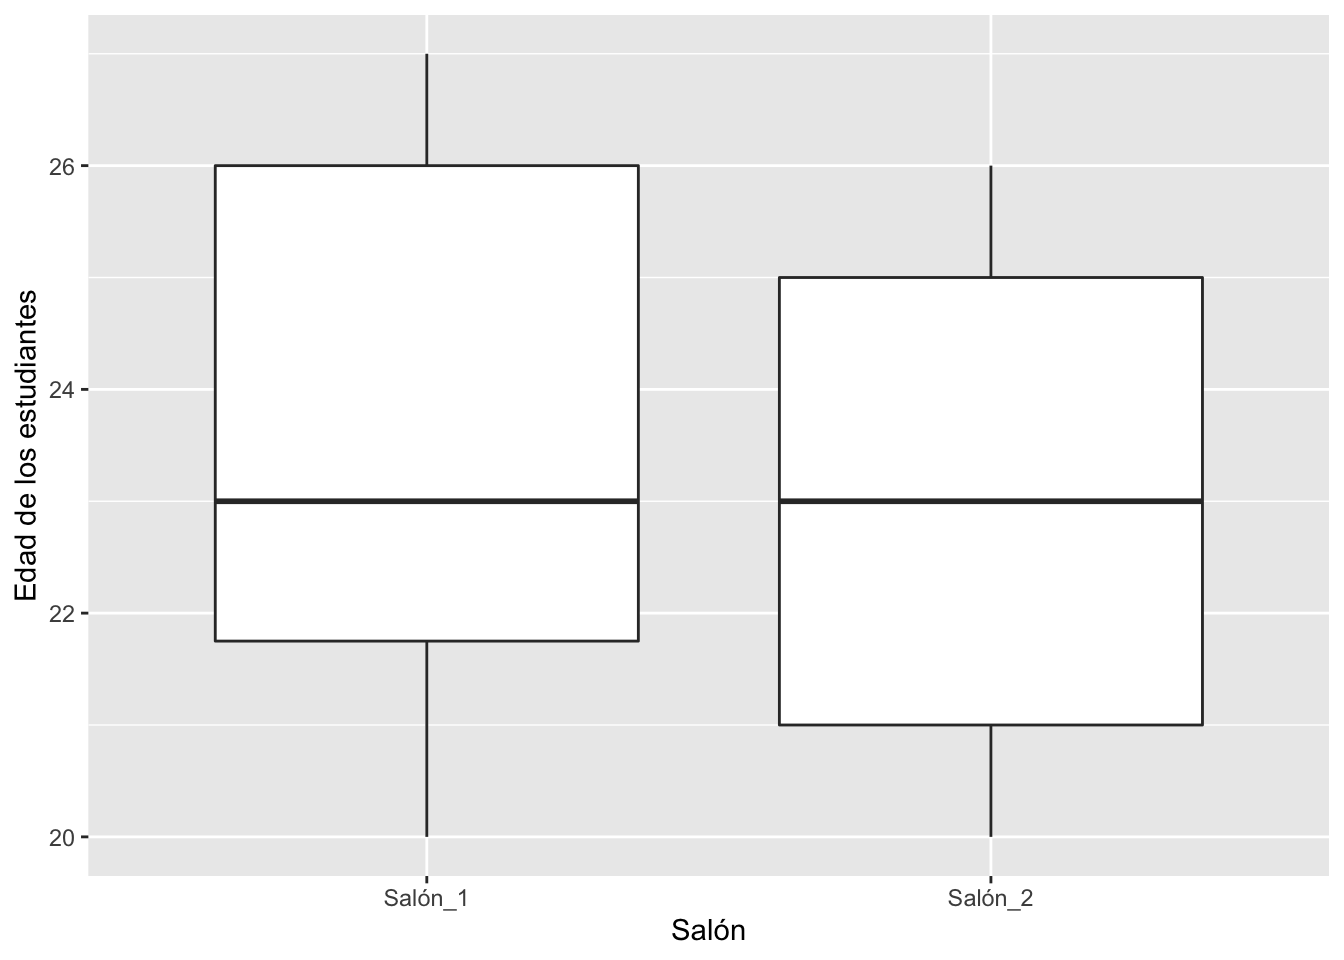
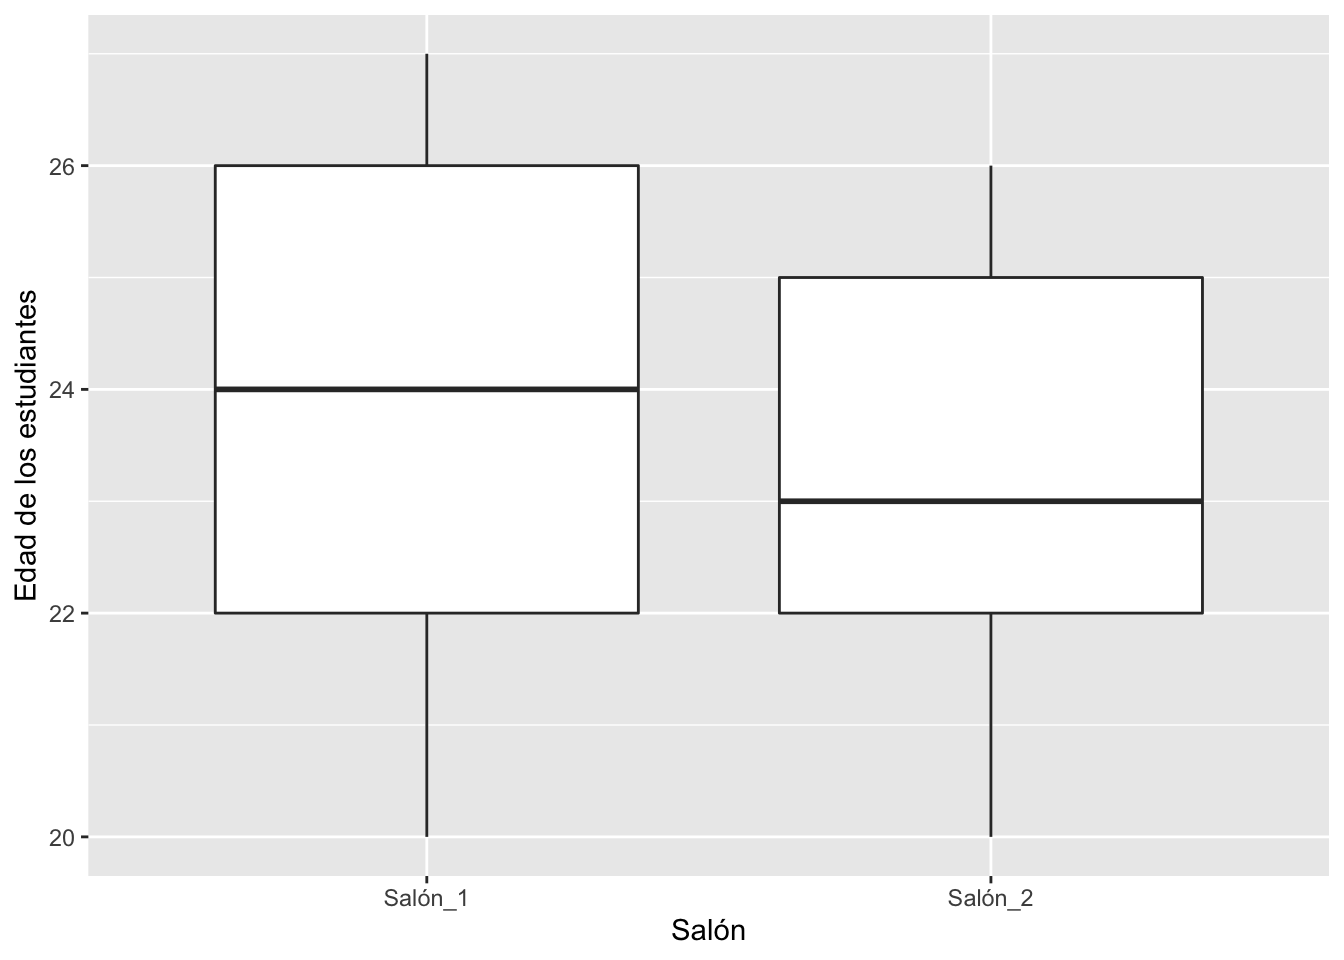
.css

diff --git a/G1-ggplot2.html b/G1-ggplot2.html
@@ -24,7 +24,8 @@
 <link href="site_libs/tocify-1.9.1/jquery.tocify.css" rel="stylesheet" />
 <script src="site_libs/tocify-1.9.1/jquery.tocify.js"></script>
 <script src="site_libs/navigation-1.1/tabsets.js"></script>
-<script src="site_libs/accessible-code-block-0.0.1/empty-anchor.js"></script>
+<link href="site_libs/highlightjs-9.12.0/default.css" rel="stylesheet" />
+<script src="site_libs/highlightjs-9.12.0/highlight.js"></script>
 <link href="site_libs/anchor-sections-1.0/anchor-sections.css" rel="stylesheet" />
 <script src="site_libs/anchor-sections-1.0/anchor-sections.js"></script>
 
@@ -37,99 +38,22 @@
   ul.task-list{list-style: none;}
     </style>
 
-
 <style type="text/css">code{white-space: pre;}</style>
-<style type="text/css" data-origin="pandoc">
-pre > code.sourceCode { white-space: pre; position: relative; }
-pre > code.sourceCode > span { display: inline-block; line-height: 1.25; }
-pre > code.sourceCode > span:empty { height: 1.2em; }
-code.sourceCode > span { color: inherit; text-decoration: inherit; }
-div.sourceCode { margin: 1em 0; }
-pre.sourceCode { margin: 0; }
-@media screen {
-div.sourceCode { overflow: auto; }
-}
-@media print {
-pre > code.sourceCode { white-space: pre-wrap; }
-pre > code.sourceCode > span { text-indent: -5em; padding-left: 5em; }
-}
-pre.numberSource code
-  { counter-reset: source-line 0; }
-pre.numberSource code > span
-  { position: relative; left: -4em; counter-increment: source-line; }
-pre.numberSource code > span > a:first-child::before
-  { content: counter(source-line);
-    position: relative; left: -1em; text-align: right; vertical-align: baseline;
-    border: none; display: inline-block;
-    -webkit-touch-callout: none; -webkit-user-select: none;
-    -khtml-user-select: none; -moz-user-select: none;
-    -ms-user-select: none; user-select: none;
-    padding: 0 4px; width: 4em;
-    color: #aaaaaa;
-  }
-pre.numberSource { margin-left: 3em; border-left: 1px solid #aaaaaa;  padding-left: 4px; }
-div.sourceCode
-  {   }
-@media screen {
-pre > code.sourceCode > span > a:first-child::before { text-decoration: underline; }
-}
-code span.al { color: #ff0000; font-weight: bold; } /* Alert */
-code span.an { color: #60a0b0; font-weight: bold; font-style: italic; } /* Annotation */
-code span.at { color: #7d9029; } /* Attribute */
-code span.bn { color: #40a070; } /* BaseN */
-code span.bu { } /* BuiltIn */
-code span.cf { color: #007020; font-weight: bold; } /* ControlFlow */
-code span.ch { color: #4070a0; } /* Char */
-code span.cn { color: #880000; } /* Constant */
-code span.co { color: #60a0b0; font-style: italic; } /* Comment */
-code span.cv { color: #60a0b0; font-weight: bold; font-style: italic; } /* CommentVar */
-code span.do { color: #ba2121; font-style: italic; } /* Documentation */
-code span.dt { color: #902000; } /* DataType */
-code span.dv { color: #40a070; } /* DecVal */
-code span.er { color: #ff0000; font-weight: bold; } /* Error */
-code span.ex { } /* Extension */
-code span.fl { color: #40a070; } /* Float */
-code span.fu { color: #06287e; } /* Function */
-code span.im { } /* Import */
-code span.in { color: #60a0b0; font-weight: bold; font-style: italic; } /* Information */
-code span.kw { color: #007020; font-weight: bold; } /* Keyword */
-code span.op { color: #666666; } /* Operator */
-code span.ot { color: #007020; } /* Other */
-code span.pp { color: #bc7a00; } /* Preprocessor */
-code span.sc { color: #4070a0; } /* SpecialChar */
-code span.ss { color: #bb6688; } /* SpecialString */
-code span.st { color: #4070a0; } /* String */
-code span.va { color: #19177c; } /* Variable */
-code span.vs { color: #4070a0; } /* VerbatimString */
-code span.wa { color: #60a0b0; font-weight: bold; font-style: italic; } /* Warning */
-
-</style>
-<script>
-// apply pandoc div.sourceCode style to pre.sourceCode instead
-(function() {
-  var sheets = document.styleSheets;
-  for (var i = 0; i < sheets.length; i++) {
-    if (sheets[i].ownerNode.dataset["origin"] !== "pandoc") continue;
-    try { var rules = sheets[i].cssRules; } catch (e) { continue; }
-    for (var j = 0; j < rules.length; j++) {
-      var rule = rules[j];
-      // check if there is a div.sourceCode rule
-      if (rule.type !== rule.STYLE_RULE || rule.selectorText !== "div.sourceCode") continue;
-      var style = rule.style.cssText;
-      // check if color or background-color is set
-      if (rule.style.color === '' && rule.style.backgroundColor === '') continue;
-      // replace div.sourceCode by a pre.sourceCode rule
-      sheets[i].deleteRule(j);
-      sheets[i].insertRule('pre.sourceCode{' + style + '}', j);
-    }
-  }
-})();
-</script>
 <style type="text/css">
   pre:not([class]) {
     background-color: white;
   }
 </style>
+<script type="text/javascript">
+if (window.hljs) {
+  hljs.configure({languages: []});
+  hljs.initHighlightingOnLoad();
+  if (document.readyState && document.readyState === "complete") {
+    window.setTimeout(function() { hljs.initHighlighting(); }, 0);
+  }
+}
+</script>
+
 
 
 <style type="text/css">
@@ -588,33 +512,33 @@ div.tocify {
 <p>Veamos un ejemplo. Si uno lista las edades de estudiantes universitarios de dos salones, tendremos el reto de intentar discernir si sus edades son aproximadamente iguales o diferentes solo al mirar la lista. ¿Será posible? A ver, intenta explicar cuál es la diferencia (si existe alguna) en las edades de las dos listas siguientes.</p>
 <p>Edades del salón 1:</p>
 <pre><code>## $V1
-##   [1] 24 24 22 25 26 21 23 26 20 23 25 27 20 20 26 22 20 25 20 26 22 27 26 24 25
-##  [26] 24 21 26 26 24 23 24 27 21 23 23 23 21 22 25 23 23 22 23 20 25 20 22 26 27
-##  [51] 21 26 27 26 23 21 20 27 20 23 20 26 21 25 21 22 22 27 23 26 21 25 21 24 22
-##  [76] 26 21 27 24 23 24 26 27 23 21 26 22 25 22 25 27 22 23 26 24 27 21 21 27 20</code></pre>
+##   [1] 24 21 23 27 23 27 23 27 20 20 27 24 23 22 22 24 20 21 25 22 26 21 24 26 26
+##  [26] 23 25 26 26 27 23 27 26 23 24 23 26 25 23 25 21 25 25 23 27 23 27 27 21 25
+##  [51] 21 27 27 26 21 26 21 21 22 27 20 22 20 26 27 20 23 24 24 21 22 26 21 21 20
+##  [76] 20 20 24 27 22 22 20 22 27 26 27 24 27 26 22 26 27 27 24 24 27 23 25 22 22</code></pre>
 <hr />
 <p>Edades del salón 2:</p>
 <pre><code>## $V1
-##   [1] 21 23 23 26 20 25 20 24 26 23 23 24 26 20 23 20 23 26 20 24 25 26 21 26 25
-##  [26] 24 23 24 21 23 26 20 20 25 23 23 23 24 25 26 26 22 25 21 26 26 20 24 22 24
-##  [51] 26 20 23 20 24 20 24 25 22 21 24 24 26 22 20 26 21 22 20 23 20 20 25 26 23
-##  [76] 22 25 20 24 22 23 26 24 22 25 21 23 26 26 23 26 24 20 26 21 22 25 21 26 22</code></pre>
+##   [1] 22 26 22 25 21 22 22 25 25 21 22 21 23 26 25 20 20 22 26 21 21 21 24 24 22
+##  [26] 22 23 23 25 24 23 23 21 24 23 20 21 26 23 22 24 22 24 26 23 20 23 22 26 24
+##  [51] 22 26 24 20 26 24 24 22 24 26 24 25 25 25 24 26 26 23 21 25 20 24 25 24 22
+##  [76] 22 22 22 22 23 20 26 26 22 21 22 23 23 26 25 23 26 20 22 20 20 26 20 23 20</code></pre>
 <p>Probablemente notes que no es evidente a primera vista cuál es la diferencia entre las dos listas de datos. Necesitamos ayuda para visualizar la diferencia. A continuación se explican un par de maneras de ver esa misma información.</p>
 <hr />
 <div id="resumir-la-información-en-tablas" class="section level2">
 <h2>Resumir la información en tablas</h2>
 <p>Una alternativa razonable para discernir la diferencia entre las edades de los dos grupos de estudiantes listadas arriba es resumir los datos en una tabla; o sea, por grupos, Salón 1 y Salón 2. Al mirar la <strong>Tabla: Edad de los Estudiantes</strong> podemos apreciar que hay muy poca diferencia entre los promedios de las edades, pero también podemos ver que la edad máxima de los estudiantes es diferente.</p>
 <p>En conclusión, con este simple ejercicio podemos afirmar que las dos listas de edades tienen valores muy similares, pero que hay otras características (por ejemplo, el valor máximo) que los hace diferentes. También podemos reconocer que si hay muchos valores en una lista, típicamente los humanos no podemos entender esos patrones a simple vista. Por lo tanto, es importante recurrir a diversos métodos para resumir los datos de forma más concisa, efectiva y eficiente, tal como lo demostraremos próximamente.</p>
-<div class="sourceCode" id="cb4"><pre class="sourceCode r"><code class="sourceCode r"><span id="cb4-1"><a href="#cb4-1"></a><span class="co"># para disparar tabla:</span></span>
-<span id="cb4-2"><a href="#cb4-2"></a>df<span class="op">%&gt;%</span></span>
-<span id="cb4-3"><a href="#cb4-3"></a><span class="st">  </span><span class="kw">select</span>(V1, Salón)<span class="op">%&gt;%</span></span>
-<span id="cb4-4"><a href="#cb4-4"></a><span class="st">  </span><span class="kw">group_by</span>(Salón)<span class="op">%&gt;%</span></span>
-<span id="cb4-5"><a href="#cb4-5"></a><span class="st">  </span><span class="kw">summarize</span>(<span class="dt">promedio=</span><span class="kw">mean</span>(V1), </span>
-<span id="cb4-6"><a href="#cb4-6"></a>             mínima=<span class="kw">min</span>(V1),</span>
-<span id="cb4-7"><a href="#cb4-7"></a>             máxima=<span class="kw">max</span>(V1))<span class="op">%&gt;%</span></span>
-<span id="cb4-8"><a href="#cb4-8"></a><span class="st">  </span><span class="kw">gt</span>()<span class="op">%&gt;%</span></span>
-<span id="cb4-9"><a href="#cb4-9"></a><span class="st">  </span><span class="kw">tab_header</span>(</span>
-<span id="cb4-10"><a href="#cb4-10"></a>    <span class="dt">title =</span> <span class="st">&quot;Tabla: Edad de los Estudiantes&quot;</span>)</span></code></pre></div>
+<pre class="r"><code># para disparar tabla:
+df%&gt;%
+  select(V1, Salón)%&gt;%
+  group_by(Salón)%&gt;%
+  summarize(promedio=mean(V1), 
+             mínima=min(V1),
+             máxima=max(V1))%&gt;%
+  gt()%&gt;%
+  tab_header(
+    title = &quot;Tabla: Edad de los Estudiantes&quot;)</code></pre>
 <style>html {
   font-family: -apple-system, BlinkMacSystemFont, 'Segoe UI', Roboto, Oxygen, Ubuntu, Cantarell, 'Helvetica Neue', 'Fira Sans', 'Droid Sans', Arial, sans-serif;
 }
@@ -971,13 +895,13 @@ div.tocify {
   <tbody class="gt_table_body">
     <tr>
       <td class="gt_row gt_left">Salón_1</td>
-      <td class="gt_row gt_right">23.53</td>
+      <td class="gt_row gt_right">23.83</td>
       <td class="gt_row gt_center">20</td>
       <td class="gt_row gt_center">27</td>
     </tr>
     <tr>
       <td class="gt_row gt_left">Salón_2</td>
-      <td class="gt_row gt_right">23.21</td>
+      <td class="gt_row gt_right">23.08</td>
       <td class="gt_row gt_center">20</td>
       <td class="gt_row gt_center">26</td>
     </tr>
@@ -989,10 +913,10 @@ div.tocify {
 <div id="cómo-visualizar-muchos-datos" class="section level2">
 <h2>Cómo visualizar muchos datos</h2>
 <p>Llegar a conclusiones prematuras sobre las edades de los estudiantes simplemente con echarle un vistazo rápido nos podría conducir a un error. Una mejor alternativa es visualizar las listas de datos con un gráfico. En ese caso, podemos visualizar esos datos con un gráfico llamado <strong>Diagrama de caja</strong> o <em>Boxplot</em>, tal como se muestra en <strong>Figura: Diagrama de Caja</strong>. Se observa que el promedio es aproximadamente igual, que ambos muestran valores mínimos idénticos, y que entonces la única diferencia es el valor máximo en los datos. Esa conclusión se pudo alcanzar simplemente produciendo un gráfico. Esa es la importancia de visualizar los datos antes de llegar a conclusiones.</p>
-<div class="sourceCode" id="cb5"><pre class="sourceCode r"><code class="sourceCode r"><span id="cb5-1"><a href="#cb5-1"></a><span class="co"># para producir un diagrama de caja:</span></span>
-<span id="cb5-2"><a href="#cb5-2"></a><span class="kw">ggplot</span>(df, <span class="kw">aes</span>(<span class="dt">y=</span>V1, <span class="dt">x=</span>Salón))<span class="op">+</span></span>
-<span id="cb5-3"><a href="#cb5-3"></a><span class="st">  </span><span class="kw">geom_boxplot</span>()<span class="op">+</span></span>
-<span id="cb5-4"><a href="#cb5-4"></a><span class="st">  </span><span class="kw">ylab</span>(<span class="st">&quot;Edad de los estudiantes&quot;</span>)</span></code></pre></div>
+<pre class="r"><code># para producir un diagrama de caja:
+ggplot(df, aes(y=V1, x=Salón))+
+  geom_boxplot()+
+  ylab(&quot;Edad de los estudiantes&quot;)</code></pre>
 <div class="figure" style="text-align: center">
 <img src="G1-ggplot2_files/figure-html/unnamed-chunk-10-1.png" alt="Figura: Diagrama de Caja" width="672" />
 <p class="caption">

diff --git a/tutorial.css b/tutorial.css
@@ -10,6 +10,8 @@
     border-color: #8c0000;
 }
 
+
+
 body {
     counter-reset: li; /* initialize counter named li */
       background-image: url("Graficos/Number_species_vs_Alien.png");
@@ -109,3 +111,5 @@ blockquote {
   font-size: 14px;
   border-left: 5px solid #eee;
 }
+
+
